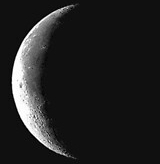
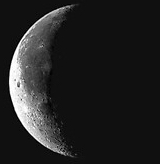
Add real moon sign with astronomy-engine, update to 27 moon images, change to Luminous

Changed region(s): [[0.0312, 0.0305, 0.4688, 0.9756], [0.375, 0.7317, 0.4062, 0.7622]]

diff --git a/src/App.jsx b/src/App.jsx
@@ -1,5 +1,6 @@
 import { useState, useEffect } from 'react'
 import SunCalc from 'suncalc'
+import * as astronomy from 'astronomy-engine'
 import CalendarSubscription from './CalendarSubscription'
 import './App.css'
 
@@ -41,23 +42,50 @@ function App() {
   }, [])
 
   const getApproxMoonSign = (date) => {
-    // Simplified zodiac calculation based on Sun's position as proxy
-    // Note: Actual moon sign would need ephemeris data
-    const month = date.getMonth() + 1
-    const day = date.getDate()
-    
-    if ((month === 3 && day >= 21) || (month === 4 && day <= 19)) return { name: "Aries", symbol: "♈", ruler: "Mars ♂", element: "Fire", modality: "Cardinal" }
-    if ((month === 4 && day >= 20) || (month === 5 && day <= 20)) return { name: "Taurus", symbol: "♉", ruler: "Venus ♀", element: "Earth", modality: "Fixed" }
-    if ((month === 5 && day >= 21) || (month === 6 && day <= 20)) return { name: "Gemini", symbol: "♊", ruler: "Mercury ☿", element: "Air", modality: "Mutable" }
-    if ((month === 6 && day >= 21) || (month === 7 && day <= 22)) return { name: "Cancer", symbol: "♋", ruler: "Moon ☽", element: "Water", modality: "Cardinal" }
-    if ((month === 7 && day >= 23) || (month === 8 && day <= 22)) return { name: "Leo", symbol: "♌", ruler: "Sun ☉", element: "Fire", modality: "Fixed" }
-    if ((month === 8 && day >= 23) || (month === 9 && day <= 22)) return { name: "Virgo", symbol: "♍", ruler: "Mercury ☿", element: "Earth", modality: "Mutable" }
-    if ((month === 9 && day >= 23) || (month === 10 && day <= 22)) return { name: "Libra", symbol: "♎", ruler: "Venus ♀", element: "Air", modality: "Cardinal" }
-    if ((month === 10 && day >= 23) || (month === 11 && day <= 21)) return { name: "Scorpio", symbol: "♏", ruler: "Mars ♂", element: "Water", modality: "Fixed" }
-    if ((month === 11 && day >= 22) || (month === 12 && day <= 21)) return { name: "Sagittarius", symbol: "♐", ruler: "Jupiter ♃", element: "Fire", modality: "Mutable" }
-    if ((month === 12 && day >= 22) || (month === 1 && day <= 19)) return { name: "Capricorn", symbol: "♑", ruler: "Saturn ♄", element: "Earth", modality: "Cardinal" }
-    if ((month === 1 && day >= 20) || (month === 2 && day <= 18)) return { name: "Aquarius", symbol: "♒", ruler: "Saturn ♄", element: "Air", modality: "Fixed" }
-    return { name: "Pisces", symbol: "♓", ruler: "Jupiter ♃", element: "Water", modality: "Mutable" }
+    try {
+      // Create an observer (we use a generic Earth observer)
+      const observer = new astronomy.Observer(0, 0, 0) // lat, lon, elevation
+      
+      // Get moon's geocentric position
+      const moonEquator = astronomy.Equator('Moon', date, observer, true, true)
+      
+      // Convert to ecliptic coordinates
+      const ecliptic = astronomy.Ecliptic(moonEquator.vec)
+      let longitude = ecliptic.elon
+      
+      // Normalize longitude to 0-360
+      if (longitude < 0) longitude += 360
+      
+      console.log("Moon ecliptic longitude:", longitude) // Debug
+      
+      // Tropical zodiac signs
+      const signs = [
+        { name: "Aries", symbol: "♈", ruler: "Mars ♂", element: "Fire", modality: "Cardinal", start: 0 },
+        { name: "Taurus", symbol: "♉", ruler: "Venus ♀", element: "Earth", modality: "Fixed", start: 30 },
+        { name: "Gemini", symbol: "♊", ruler: "Mercury ☿", element: "Air", modality: "Mutable", start: 60 },
+        { name: "Cancer", symbol: "♋", ruler: "Moon ☽", element: "Water", modality: "Cardinal", start: 90 },
+        { name: "Leo", symbol: "♌", ruler: "Sun ☉", element: "Fire", modality: "Fixed", start: 120 },
+        { name: "Virgo", symbol: "♍", ruler: "Mercury ☿", element: "Earth", modality: "Mutable", start: 150 },
+        { name: "Libra", symbol: "♎", ruler: "Venus ♀", element: "Air", modality: "Cardinal", start: 180 },
+        { name: "Scorpio", symbol: "♏", ruler: "Mars ♂", element: "Water", modality: "Fixed", start: 210 },
+        { name: "Sagittarius", symbol: "♐", ruler: "Jupiter ♃", element: "Fire", modality: "Mutable", start: 240 },
+        { name: "Capricorn", symbol: "♑", ruler: "Saturn ♄", element: "Earth", modality: "Cardinal", start: 270 },
+        { name: "Aquarius", symbol: "♒", ruler: "Saturn ♄", element: "Air", modality: "Fixed", start: 300 },
+        { name: "Pisces", symbol: "♓", ruler: "Jupiter ♃", element: "Water", modality: "Mutable", start: 330 }
+      ]
+      
+      // Find which sign the moon is in
+      for (let i = signs.length - 1; i >= 0; i--) {
+        if (longitude >= signs[i].start) {
+          return signs[i]
+        }
+      }
+      
+      return signs[0]
+    } catch (error) {
+      console.error("Error calculating moon sign:", error)
+      return { name: "Sagittarius", symbol: "♐", ruler: "Jupiter ♃", element: "Fire", modality: "Mutable" }
+    }
   }
 
   const getDaysUntilNextPhase = (currentPhase) => {
@@ -321,10 +349,27 @@ function App() {
     return phases[0] // Default to New Moon
   }
 
-  const getMoonImagePath = (illumination) => {
-    // Map illumination percentage (0-1) to 24 moon phase images
-    const imageNumber = Math.ceil(illumination * 24) || 1
-    const clampedNumber = Math.max(1, Math.min(24, imageNumber))
+    const getMoonImagePath = (illumination) => {
+    // 27 images: 1,27 (black), 2 (thin wax), 8 (1st qtr), 14 (full), 21 (3rd qtr), 26 (thin wan)
+    let imageNumber
+    
+    if (illumination <= 0.015) {
+      // Black New Moon (0-1.5%) → Image 1
+      imageNumber = 1
+    } else if (illumination < 0.50) {
+      // Waxing (1.5-50%) → Images 2-8
+      imageNumber = Math.round(2 + ((illumination - 0.015) / 0.485) * 6)
+    } else if (illumination < 0.985) {
+      // Full + Waning (50-98.5%) → Images 9-26
+      imageNumber = Math.round(9 + ((illumination - 0.50) / 0.485) * 17)
+    } else {
+      // Black New Moon (98.5-100%) → Image 27
+      imageNumber = 27
+    }
+    
+    const clampedNumber = Math.max(1, Math.min(27, imageNumber))
+    console.log("Illumination:", (illumination * 100).toFixed(1) + "%", "→ Image:", clampedNumber)
+    
     return `/moon-phases-real/${clampedNumber}.jpg`
   }
 
@@ -383,7 +428,7 @@ const getSignOilPurpose = (signName) => {
             className="moon-image"
           />
           <h2>{moonData.phaseInfo.name}</h2>
-          <p className="illumination">{(moonData.illumination * 100).toFixed(1)}% Illuminated</p>
+          <p className="illumination">{(moonData.illumination * 100).toFixed(1)}% Luminous</p>
           <p className="zodiac">Moon in {moonData.zodiacSign.name} {moonData.zodiacSign.symbol}</p>
           <div className="days-until">
             <span>🌑 New Moon in {moonData.daysUntil.toNewMoon} days</span>
